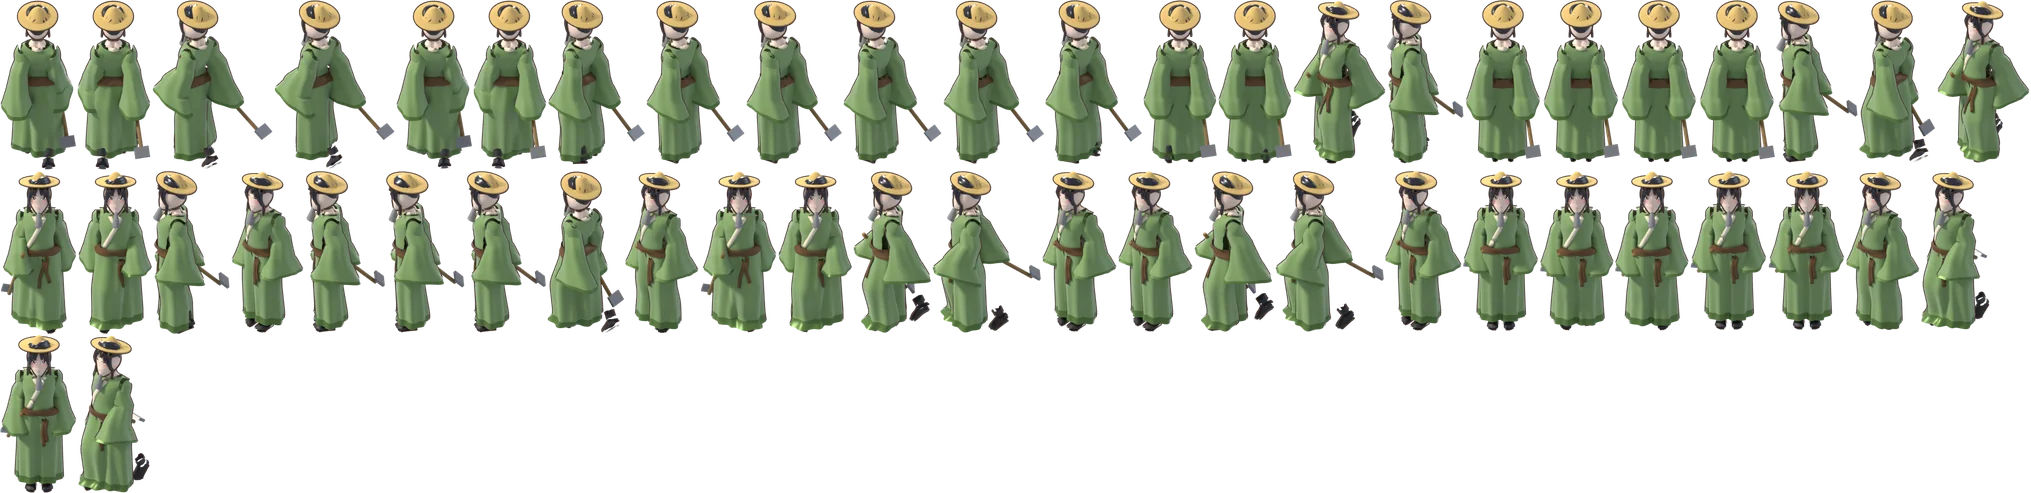
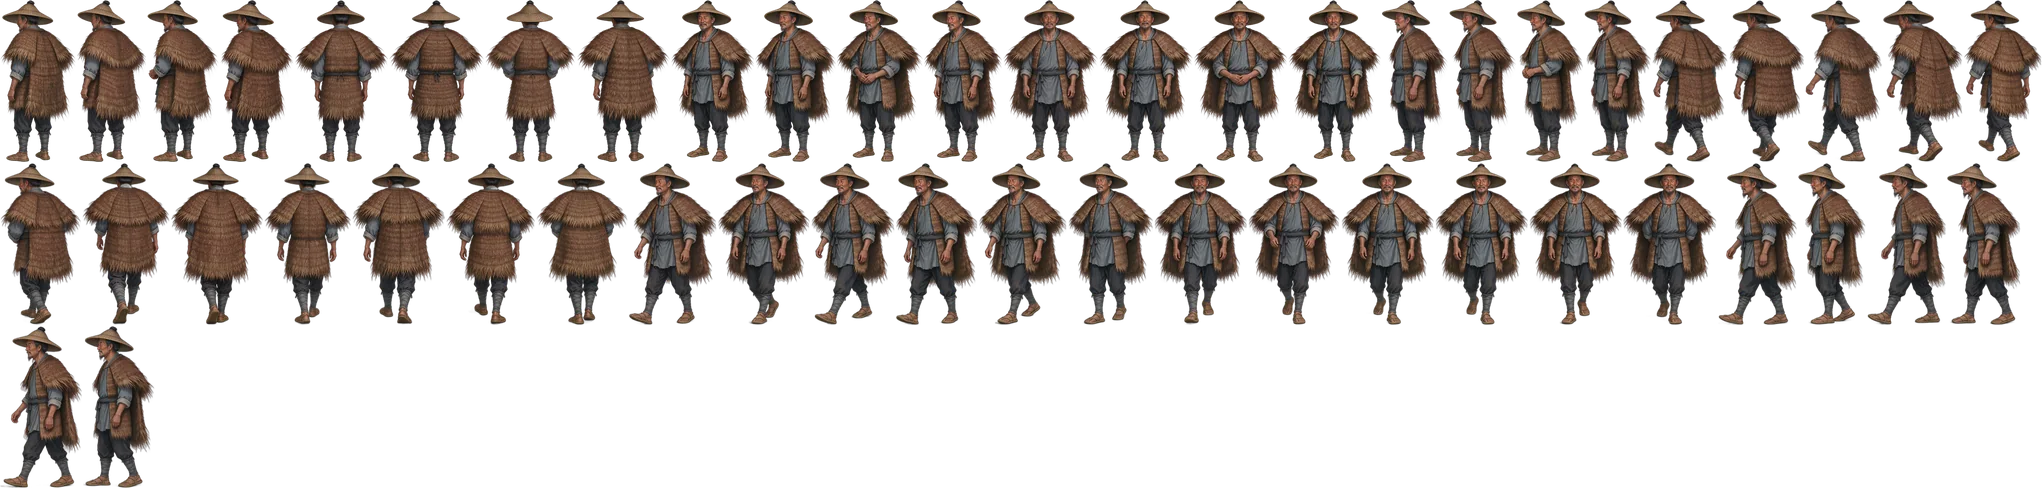
AI精绘: 农夫NPC写实化(npc_farmer, idle4+walk6×5方向=50帧 SD包)

diff --git a/test/npc_farmer_check.py b/test/npc_farmer_check.py
@@ -1,0 +1,66 @@
+# -*- coding: utf-8 -*-
+# AI 精绘精灵链自测（npc_farmer）：建角进游戏，强制 spr=npc_farmer，遍历 8 方向×idle/walk，截图。
+import asyncio, os, sys, json
+from playwright.async_api import async_playwright
+HERE = os.path.dirname(os.path.abspath(__file__))
+ROOT = os.path.abspath(os.path.join(HERE, '..', 'www'))
+URL = 'file://' + ROOT + '/index.html'
+OUT = os.path.join(HERE, 'shots_npc_farmer') + '/'; os.makedirs(OUT, exist_ok=True)
+CHROME = os.environ.get('CHROME', '/opt/vm/preinstall/ms-playwright/chromium-1169/chrome-linux/chrome')
+SID = 'npc_farmer'
+
+CLICK_JS = """()=>{
+  const ws=[...document.querySelectorAll('#modals .mwrap')];
+  if(!ws.length) return false;
+  const w=ws[ws.length-1];
+  const opt=w.querySelector('.opts .opt');
+  if(opt){opt.click(); return true;}
+  return false;
+}"""
+
+async def main():
+    errs = []
+    async with async_playwright() as p:
+        b = await p.chromium.launch(executable_path=CHROME, args=['--allow-file-access-from-files', '--autoplay-policy=no-user-gesture-required'])
+        ctx = await b.new_context(viewport={'width': 390, 'height': 844}, device_scale_factor=2, is_mobile=True, has_touch=True)
+        pg = await ctx.new_page()
+        pg.on('pageerror', lambda e: errs.append('PAGEERR ' + str(e)))
+        pg.on('console', lambda m: errs.append(m.text) if m.type == 'error' else None)
+
+        async def pump(n=10, every=600):
+            for _ in range(n):
+                clicked = await pg.evaluate(CLICK_JS)
+                if clicked: await pg.wait_for_timeout(every)
+                else: await pg.wait_for_timeout(250)
+
+        await pg.goto(URL); await pg.wait_for_timeout(2500)
+        await pg.click('text=开始新人生'); await pg.wait_for_timeout(400)
+        await pg.click('#nx'); await pg.wait_for_timeout(300)
+        for k in range(3): await pg.locator('.talb').nth(k).click()
+        await pg.click('#nx'); await pg.wait_for_timeout(300)
+        await pg.click('#rs'); await pg.click('#nx'); await pg.wait_for_timeout(300)
+        await pg.click('#nx'); await pg.wait_for_timeout(3000)
+        await pump(10, 350)
+        await pg.wait_for_timeout(1200)
+
+        await pg.evaluate(f"()=>{{ if(R.player){{ R.player.spr='{SID}'; R.player.anim='idle'; R.player.dir='S'; R.player.at=0; }} }}")
+        await pg.wait_for_timeout(400)
+        g = await pg.evaluate(f"()=>{{return {{ spr:R.player.spr, fw:ASSETS.sprites.{SID}.fw, fh:ASSETS.sprites.{SID}.fh }};}}")
+        print('forced:', g)
+
+        dirs = ['S','SW','W','NW','N','NE','E','SE']
+        anims = ['idle','walk']
+        for d in dirs:
+            for an in anims:
+                await pg.evaluate(f"()=>{{ if(R.player){{ R.player.dir='{d}'; R.player.anim='{an}'; R.player.at=0; }} }}")
+                await pg.wait_for_timeout(300)
+                await pg.screenshot(path=OUT + f'chk_{an}_{d}.png')
+
+        await b.close()
+
+    print('--- errors ---')
+    for e in errs: print('ERR:', e[:200])
+    print('total errors:', len(errs))
+
+if __name__ == '__main__':
+    asyncio.run(main())
